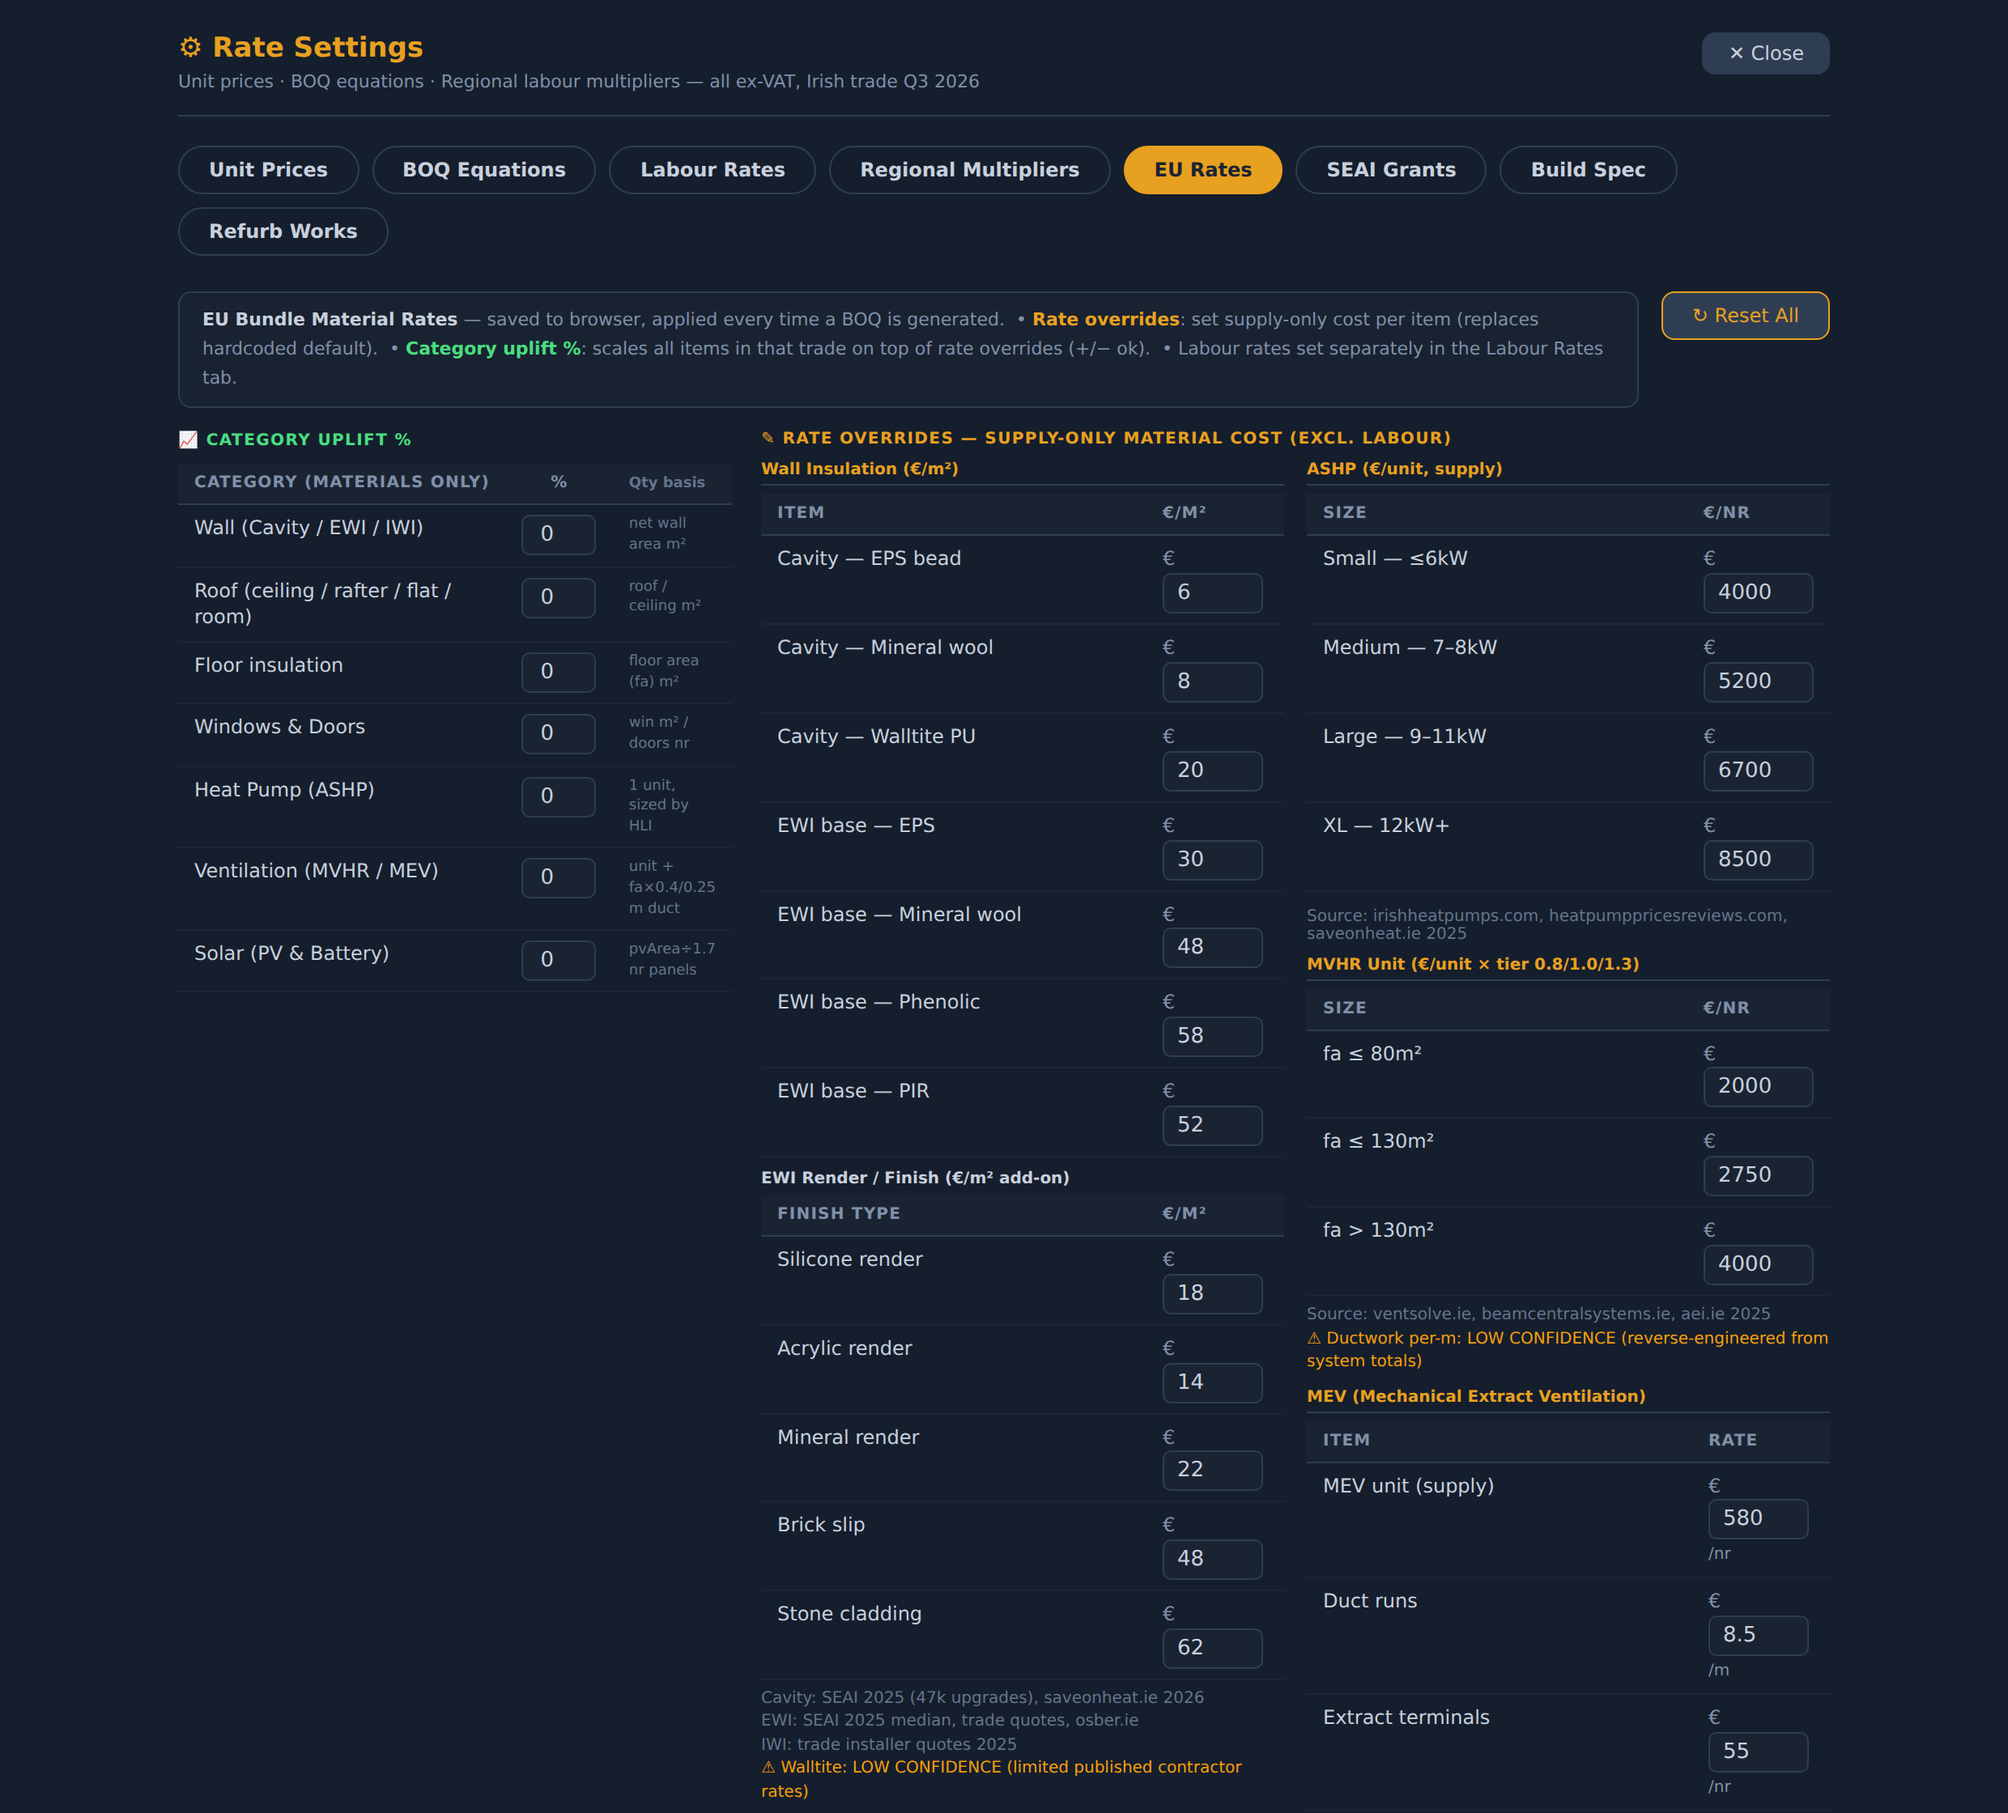
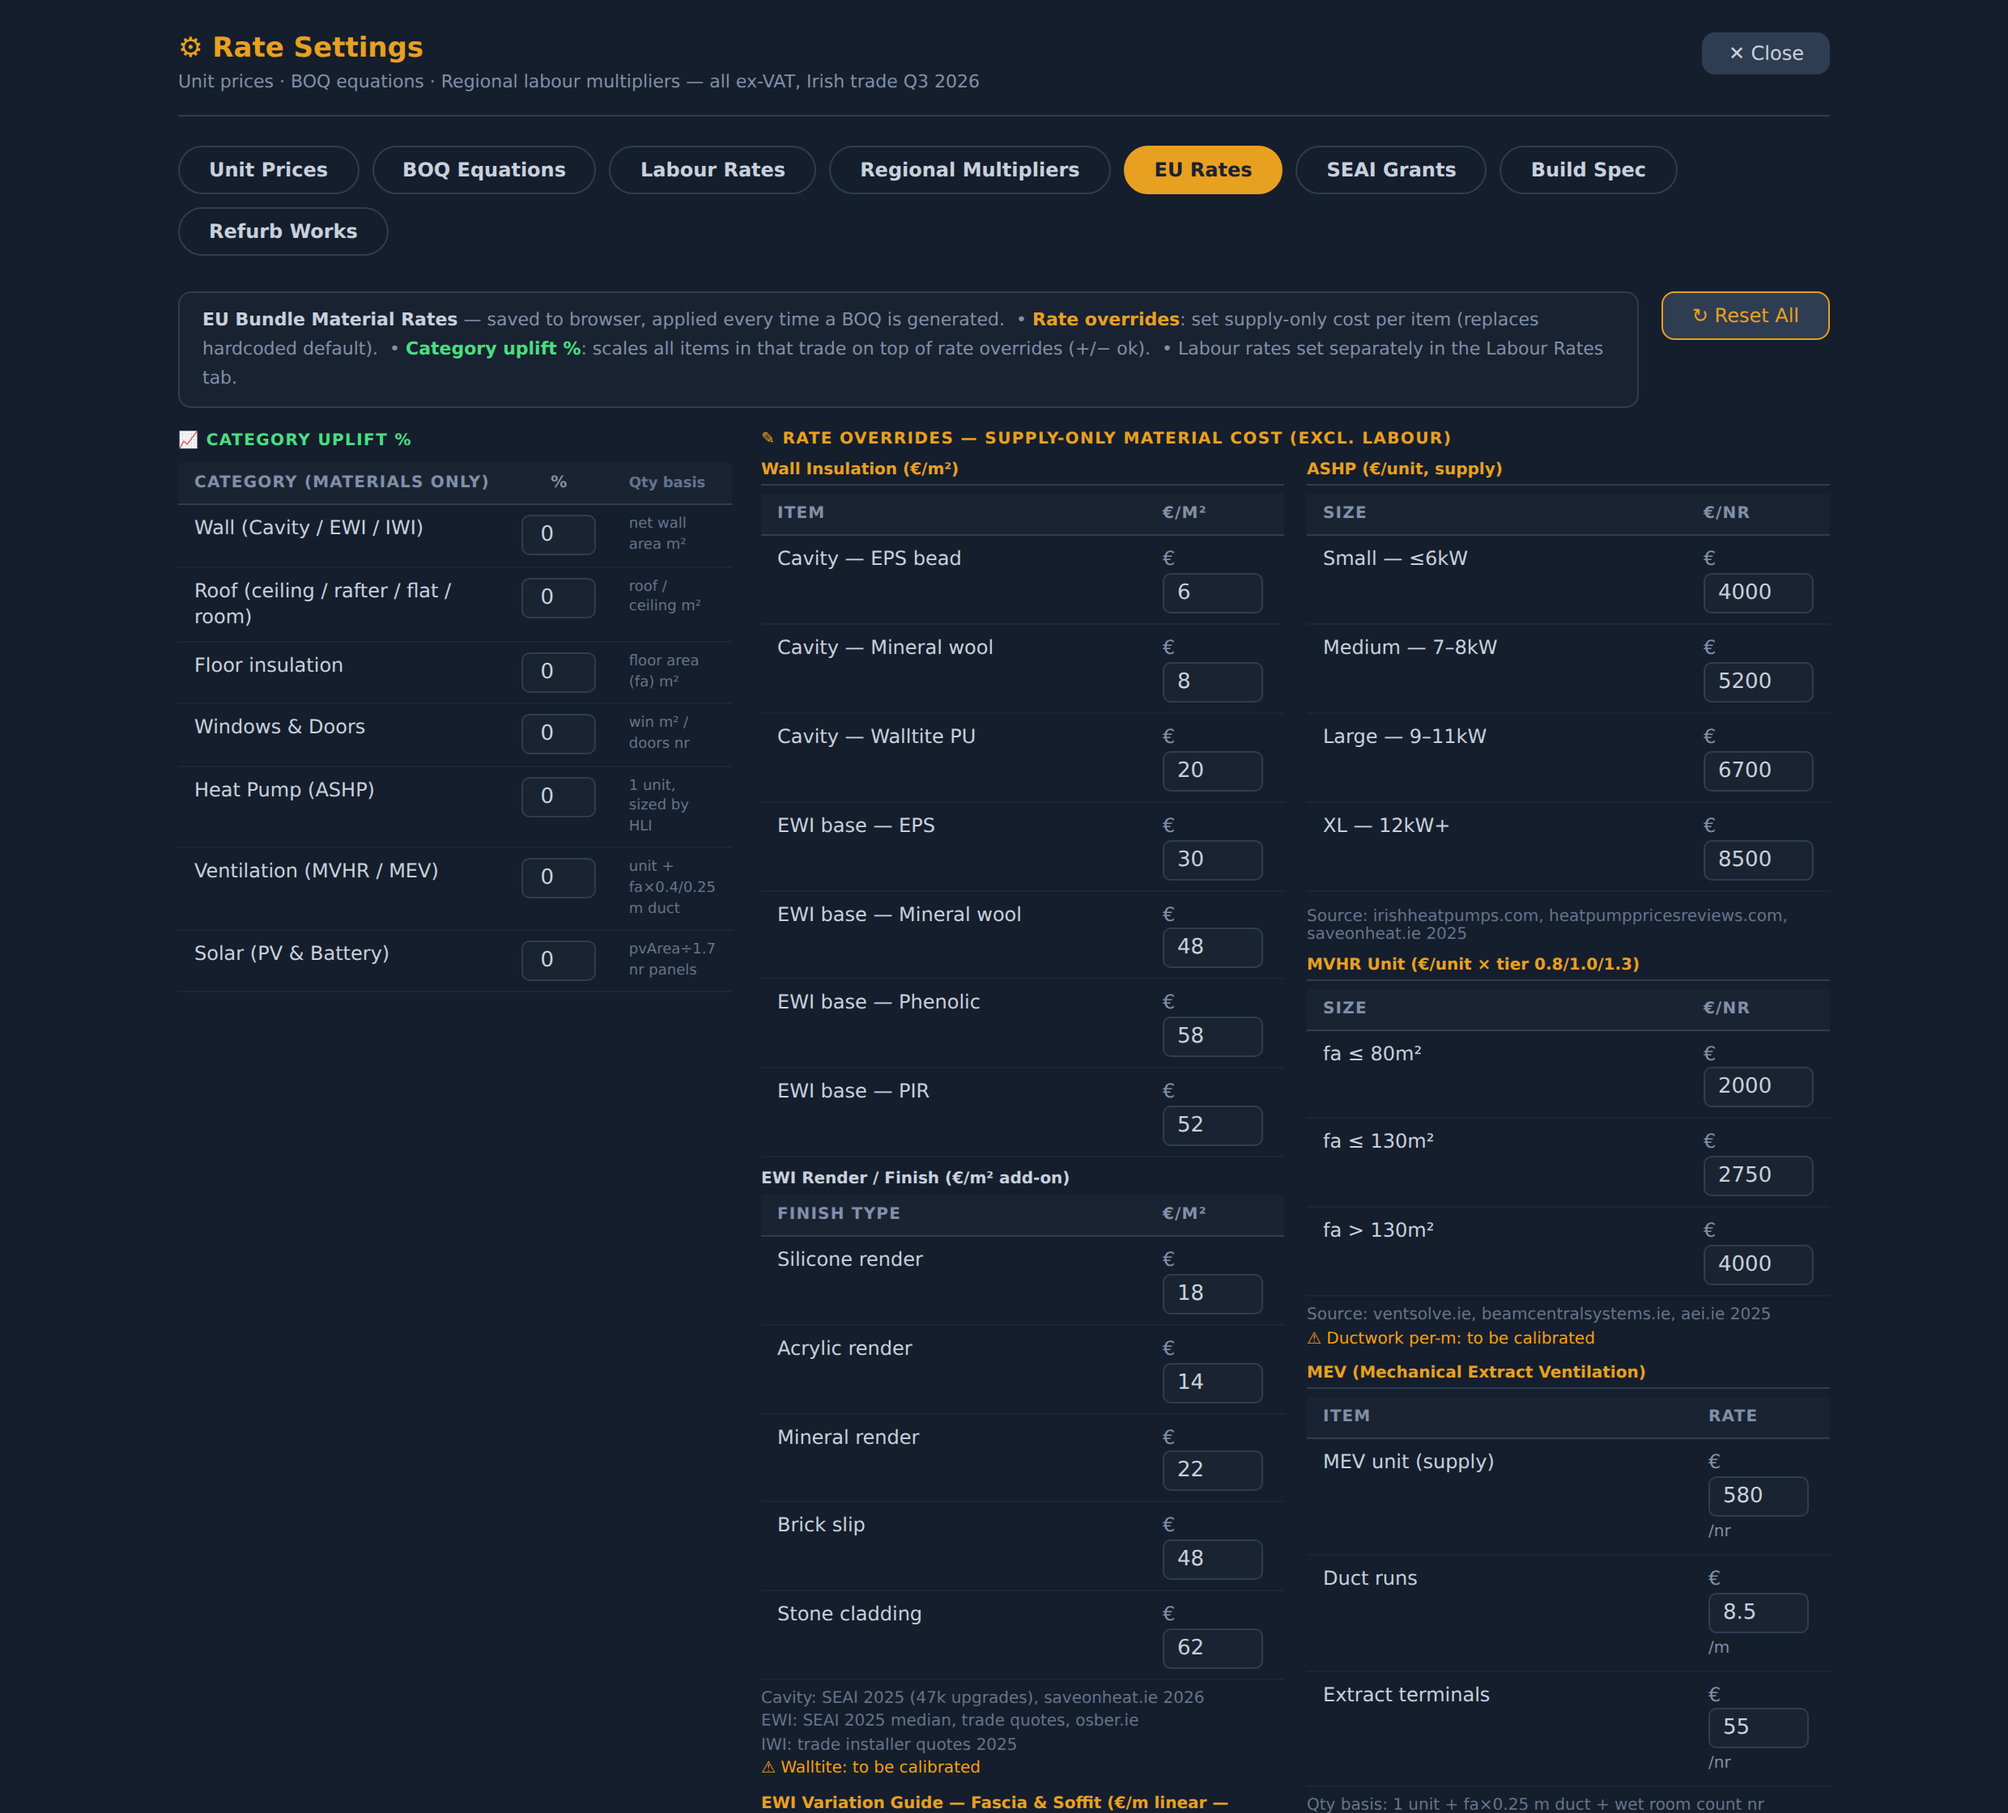
Rates awaiting calibration, not "low confidence"
The pack and the app both flagged certain rates as LOW CONFIDENCE, with the
reason attached -- "reverse-engineered from system totals", "limited market
data", "treat as indicative" -- and document 07 said such a rate "can be
corrected rather than trusted". That invites a reader to discount the figure
rather than to place it: these are rates the pilot exists to settle, and
saying so is both accurate and the stronger position.

Now "to be calibrated" throughout. In the app's Rate Settings panel, on the
three inline flags and the footnote, which now reads "To be calibrated marks
a rate the recorded outturns will settle". In the pack, on document 01's
software summary and in document 07's text and its page-3 caption. The
reasons a rate is uncertain are dropped with the label.

The engine screenshots were re-captured so document 07 shows the new
wording. Verified across every finished PDF: no "low confidence", "weak",
"data is thin", "treat as indicative" or "verified with a specialist"
remains. Left alone: three source comments in the engine code, which are
developer notes on data provenance and appear in no document.

Caught on the read-back: the first edit to document 07 left a dangling
"Where the" from the sentence it replaced. Fixed before the build.

The three printed documents are unchanged -- the labels live only in the
Rate Settings overlay. Total still EUR 34,977. All seven documents fit; all
13 script blocks parse.
[…]

diff --git a/ber_build_planner.html b/ber_build_planner.html
@@ -23166,7 +23166,7 @@ Each section is then loaded on its own:
                   <tr><td>Stone cladding</td><td><span style="color:#8090A8;margin-right:2px;">&#8364;</span><input id="eur-ewi_rend_stn" class="mdb-pi" type="number" min="1" step="1" value="62" oninput="euRatesSave()" style="width:62px;"></td></tr>
                 </tbody>
               </table>
-              <div style="font-size:10px;color:#64748b;margin-top:5px;line-height:1.45;">Cavity: SEAI 2025 (47k upgrades), saveonheat.ie 2026<br>EWI: SEAI 2025 median, trade quotes, osber.ie<br>IWI: trade installer quotes 2025<br><span style="color:#f59e0b;">&#9888; Walltite: LOW CONFIDENCE (limited published contractor rates)</span></div>
+              <div style="font-size:10px;color:#64748b;margin-top:5px;line-height:1.45;">Cavity: SEAI 2025 (47k upgrades), saveonheat.ie 2026<br>EWI: SEAI 2025 median, trade quotes, osber.ie<br>IWI: trade installer quotes 2025<br><span style="color:#f59e0b;">&#9888; Walltite: to be calibrated</span></div>
               <div style="font-size:10px;font-weight:600;color:#E8A020;margin:8px 0 5px;border-bottom:1px solid #2e3d52;padding-bottom:3px;">EWI Variation Guide — Fascia &amp; Soffit (&#8364;/m linear — excluded from the benchmark, feeds the appendix guide price)</div>
               <table class="mdb-tbl" style="margin-bottom:4px;">
                 <thead><tr><th>Item</th><th style="width:85px;">Rate</th></tr></thead>
@@ -23199,7 +23199,7 @@ Each section is then loaded on its own:
                   <tr><td>fa &gt; 130m&#178;</td><td><span style="color:#8090A8;margin-right:2px;">&#8364;</span><input id="eur-mvhr_l" class="mdb-pi" type="number" min="100" step="50" value="4000" oninput="euRatesSave()" style="width:68px;"></td></tr>
                 </tbody>
               </table>
-              <div style="font-size:10px;color:#64748b;margin-top:5px;margin-bottom:8px;line-height:1.45;">Source: ventsolve.ie, beamcentralsystems.ie, aei.ie 2025<br><span style="color:#f59e0b;">&#9888; Ductwork per-m: LOW CONFIDENCE (reverse-engineered from system totals)</span></div>
+              <div style="font-size:10px;color:#64748b;margin-top:5px;margin-bottom:8px;line-height:1.45;">Source: ventsolve.ie, beamcentralsystems.ie, aei.ie 2025<br><span style="color:#f59e0b;">&#9888; Ductwork per-m: to be calibrated</span></div>
               <div style="font-size:10px;font-weight:600;color:#E8A020;margin-bottom:5px;border-bottom:1px solid #2e3d52;padding-bottom:3px;">MEV (Mechanical Extract Ventilation)</div>
               <table class="mdb-tbl">
                 <thead><tr><th>Item</th><th style="width:85px;">Rate</th></tr></thead>
@@ -23254,7 +23254,7 @@ Each section is then loaded on its own:
                   <tr><td>Battery &gt; 15kWh</td><td><span style="color:#8090A8;margin-right:2px;">&#8364;</span><input id="eur-bat_xl" class="mdb-pi" type="number" min="100" step="50" value="9000" oninput="euRatesSave()" style="width:62px;"></td></tr>
                 </tbody>
               </table>
-              <div style="font-size:10px;color:#64748b;margin-top:5px;line-height:1.45;">Source: solarinfo.ie, goingsolar.ie 2025<br><span style="color:#f59e0b;">&#9888; Battery &gt; 15kWh: LOW CONFIDENCE &mdash; limited market data</span></div>
+              <div style="font-size:10px;color:#64748b;margin-top:5px;line-height:1.45;">Source: solarinfo.ie, goingsolar.ie 2025<br><span style="color:#f59e0b;">&#9888; Battery &gt; 15kWh: to be calibrated</span></div>
             </div>
 
             <!-- Attic bundle ancillaries -->
@@ -23277,7 +23277,7 @@ Each section is then loaded on its own:
 
       </div>
       <div id="eur-vars-section"></div>
-      <div style="font-size:10px;color:#64748b;padding:8px 0 4px;line-height:1.6;">All rates: 2026 Irish market mid-range, supply-only. Floor insulation: limited Irish-specific data &mdash; treat as indicative. <strong style="color:#f59e0b;">&#9888; LOW CONFIDENCE</strong> items should be verified with a specialist contractor before use in a formal estimate. Labour calculated from hourly rates in Labour Rates tab &times; county multiplier.</div>
+      <div style="font-size:10px;color:#64748b;padding:8px 0 4px;line-height:1.6;">All rates: 2026 Irish market mid-range, supply-only. <strong style="color:#f59e0b;">&#9888; To be calibrated</strong> marks a rate the recorded outturns will settle. Labour calculated from hourly rates in Labour Rates tab &times; county multiplier.</div>
     </div>
 
     <div id="mdb-refrates" class="mdb-tab-panel" style="display:none;">

diff --git a/pack/seai_pack.py b/pack/seai_pack.py
@@ -304,7 +304,7 @@ doc1 = f'''<div class="sheet">
 
   {vk('The software and the engine &mdash; documents 06 and 07')}
   <p class="body" style="font-size:9.2pt;line-height:1.50;margin-bottom:2.1mm;">Live and running after close to a year in development: the survey goes in, the intended measures are
-    selected, the three documents print, and the grant route can be switched at the moment of download. Behind it sits a rate book with a version and an effective date, sourced line by line and held in one place, with its weak rates marked as weak.</p>
+    selected, the three documents print, and the grant route can be switched at the moment of download. Behind it sits a rate book with a version and an effective date, sourced line by line and held in one place, with any rate still to be calibrated marked as such.</p>
 
   {vk('The proposition')}
   <p class="body" style="font-size:9.2pt;line-height:1.50;margin-bottom:2.1mm;"><strong>A pilot programme.</strong> A few registered assessors, a fixed number
@@ -603,9 +603,8 @@ doc7 = f'''<div class="sheet">
     Supplement; grants at SEAI&rsquo;s published amounts; VAT as Revenue applies it. Each block names its
     own source beneath it.</p>
   <p class="body" style="{ENG_P}"><strong>Held in one place.</strong> Every rate shows its published value and
-    its source. A change is made once, centrally, and every plan priced afterwards follows. Where the
-    data is thin the panel says so &mdash; the ventilation ductwork rate is marked <strong>low
-    confidence</strong> &mdash; so it can be corrected rather than trusted.</p>
+    its source. A change is made once, centrally, and every plan priced afterwards follows. The panel
+    marks any rate still to be calibrated, so the outturns recorded through a pilot settle it.</p>
   {engfig('eng_a', '160mm', 'Walls, heat pump and ventilation.',
     'Category uplift by trade on the left; supply-only material rates on the right, the published figure in every box and the source under each group.')}
   <div class="fine">{FINE1}</div>
@@ -629,7 +628,7 @@ doc7 = f'''<div class="sheet">
     when an item is ticked into a plan after the survey, its priced line uses the same rate. One number, in
     one place, feeding both.</p>
   {engfig('eng_c', '172mm', 'Variations &mdash; not included guide rates.',
-    'Material per unit, labour from the Labour Rates tab, loaded like the plan: overhead and profit at 12%, then VAT. The low-confidence flag at the foot applies to items with limited Irish market data, which the panel says should be verified with a specialist before use in a formal estimate.')}
+    'Material per unit, labour from the Labour Rates tab, loaded like the plan: overhead and profit at 12%, then VAT. The flag at the foot marks a rate still to be calibrated against recorded outturns.')}
   <div class="fine">Screens from the live software, 2 September 2026, unedited.</div>
   {footer(7, '3', '3')}
 </div>'''
